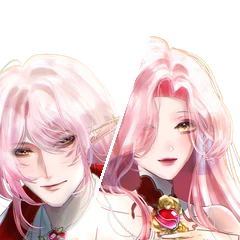
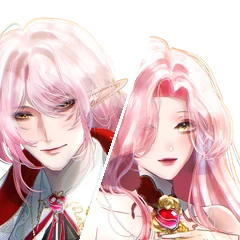
STATE & SIA face: raise State to match Sia
Claude-Session: https://claude.ai/code/session_0182ETGqkY6VZC2ACV9rE9Mb

Changed region(s): [[0.0, 0.0583, 0.5542, 1.0], [0.35, 0.1167, 0.3792, 0.1458], [0.2917, 0.2917, 0.3208, 0.3208]]

diff --git a/index.html b/index.html
@@ -988,7 +988,7 @@ var TALENTS = [
   { id:'v7-phoebe', img:'talent-v7-phoebe.webp', face:'talent-v7-phoebe-face.webp?v=4', name:'Phoebe', short:'Phoebe', ini:'P', type:'VTuber', aff:{name:'Virtual 7', logo:'logos/virtual7.png'}, langs:['th', 'en'], color:'#DDF1EE', tags:['#FreeTalk', '#Gaming'], works:['promo', 'review', 'dub', 'collab'], links:[['YouTube',4020,'https://www.youtube.com/@PhoebeVZ'],['X',null,'https://x.com/vz_phoebe'],['TikTok',null,'https://www.tiktok.com/@phoebebuddyvz'],['Facebook',null,'https://www.facebook.com/PhoebeVZ']] },
   { id:'v7-wint3r', img:'talent-v7-wint3r.webp', face:'talent-v7-wint3r-face.webp?v=4', halves:['talent-v7-wint3r-half.webp?v=2'], card:'talent-v7-wint3r-half.webp?v=2', name:'WIN3R', short:'WIN3R', ini:'W', type:'VTuber', aff:{name:'Virtual 7', logo:'logos/virtual7.png'}, langs:['th', 'en'], color:'#E6E0FA', tags:['#FreeTalk', '#ASMR', '#Singing'], works:['promo', 'review', 'dub', 'collab', 'cover'], links:[['YouTube',14900,'https://www.youtube.com/@wint3r_vz'],['X',null,'https://x.com/wint3r_vz'],['TikTok',null,'https://www.tiktok.com/@wint3r_vz'],['Facebook',null,'https://www.facebook.com/Wint3rVZ']] },
   { id:'v7-sp1ng', img:'talent-v7-sp1ng.webp', face:'talent-v7-sp1ng-face.webp?v=4', name:'SPR1NG', short:'SPR1NG', ini:'S', type:'VTuber', aff:{name:'Virtual 7', logo:'logos/virtual7.png'}, langs:['th', 'en'], color:'#D9F3EF', tags:['#FreeTalk', '#Gaming'], works:['promo', 'review', 'dub', 'collab'], links:[['YouTube',5770,'https://www.youtube.com/@spr1ng_vz'],['X',null,'https://x.com/SPR1NG_VZ'],['TikTok',null,'https://www.tiktok.com/@spr1ng_vz']] },
-  { id:'v7-statesia', img:'talent-v7-statesia.webp', face:'talent-v7-statesia-face.webp?v=5', halves:['talent-v7-statesia-half.webp?v=3'], card:'talent-v7-statesia-half.webp?v=3', name:'STATE & SIA', short:'STATE & SIA', ini:'SS', type:'VTuber', aff:{name:'Virtual 7', logo:'logos/virtual7.png'}, langs:['th'], color:'#F6E1E6', tags:['#FreeTalk', '#Singing', '#Gaming'], works:['promo', 'review', 'dub', 'collab', 'cover'], links:[['YouTube',10500,'https://www.youtube.com/@StateSiaVZ'],['X',null,'https://x.com/State_vz','X (State)'],['TikTok',null,'https://www.tiktok.com/@statesia.vz'],['X',null,'https://x.com/SIA_vz','X (Sia)'],['Facebook',null,'https://www.facebook.com/statesia.vz']] },
+  { id:'v7-statesia', img:'talent-v7-statesia.webp', face:'talent-v7-statesia-face.webp?v=6', halves:['talent-v7-statesia-half.webp?v=3'], card:'talent-v7-statesia-half.webp?v=3', name:'STATE & SIA', short:'STATE & SIA', ini:'SS', type:'VTuber', aff:{name:'Virtual 7', logo:'logos/virtual7.png'}, langs:['th'], color:'#F6E1E6', tags:['#FreeTalk', '#Singing', '#Gaming'], works:['promo', 'review', 'dub', 'collab', 'cover'], links:[['YouTube',10500,'https://www.youtube.com/@StateSiaVZ'],['X',null,'https://x.com/State_vz','X (State)'],['TikTok',null,'https://www.tiktok.com/@statesia.vz'],['X',null,'https://x.com/SIA_vz','X (Sia)'],['Facebook',null,'https://www.facebook.com/statesia.vz']] },
   { id:'v7-perika', img:'talent-v7-perika.webp', face:'talent-v7-perika-face.webp?v=4', name:'PE:RIKA', short:'PE:RIKA', ini:'P', type:'VTuber', aff:{name:'Virtual 7', logo:'logos/virtual7.png'}, langs:['th', 'en'], color:'#E2E8F4', tags:['#FreeTalk', '#Gaming'], works:['promo', 'review', 'dub', 'collab'], links:[['YouTube',2290,'https://www.youtube.com/@PerikaVZ'],['X',null,'https://x.com/PerikaVZ']] },
   { id:'v7-cheshire', img:'talent-v7-cheshire.webp', face:'talent-v7-cheshire-face.webp?v=4', name:'CHE:SHIRE', short:'CHE:SHIRE', ini:'C', type:'VTuber', aff:{name:'Virtual 7', logo:'logos/virtual7.png'}, langs:['th'], color:'#E4E0F6', tags:['#FreeTalk', '#Gaming'], works:['promo', 'review', 'dub', 'collab'], links:[['YouTube',9010,'https://www.youtube.com/@CheshireVZ'],['X',null,'https://x.com/CheshireVZ']] },
   { id:'v7-stamplmty', img:'talent-v7-stamplmty.webp', face:'talent-v7-stamplmty-face.webp?v=4', halves:['talent-v7-stamplmty-half.webp?v=2'], card:'talent-v7-stamplmty-half.webp?v=2', name:'Stamp LMTY', short:'Stamp', ini:'SL', type:'VTuber', aff:{name:'Virtual 7', logo:'logos/virtual7.png'}, langs:['th', 'en'], color:'#F2E2EA', tags:['#FreeTalk', '#Gaming'], works:['promo', 'review', 'dub', 'collab'], links:[['YouTube',160000,'https://www.youtube.com/@StampLMTY'],['X',null,'https://x.com/StampLMTY'],['TikTok',null,'https://www.tiktok.com/@stamplmty'],['Facebook',null,'https://www.facebook.com/StampLMTY']] },
